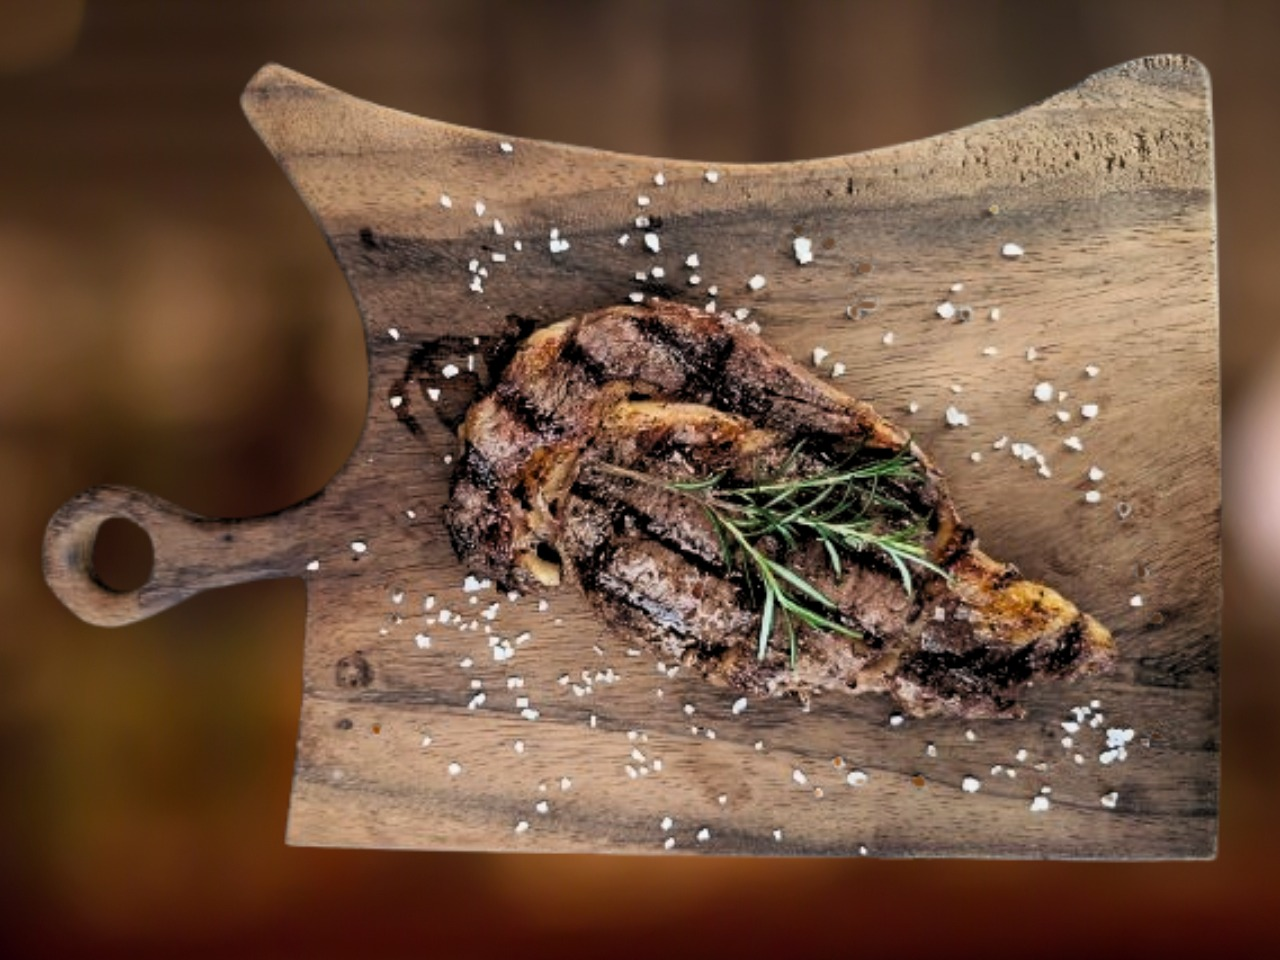
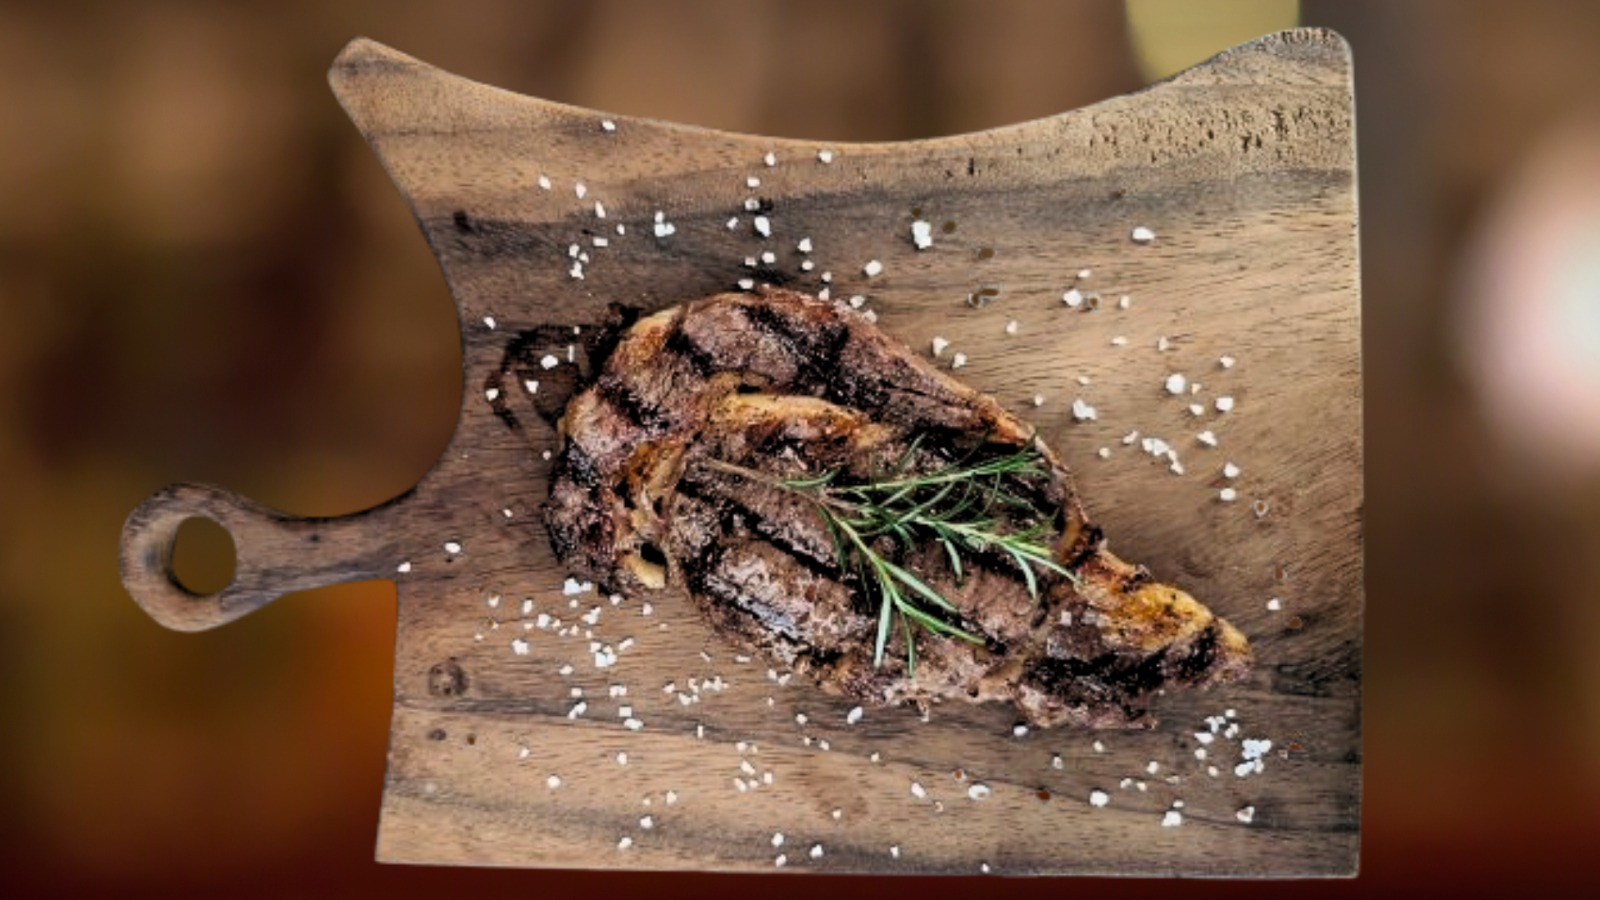
Mod imagenes de slider

diff --git a/index.html b/index.html
@@ -81,7 +81,7 @@
                 <a href="#menu-hojas" class="btn-hero"> VER MENÚ</a>
             </div>
         </div>
-        <div class="slide" style="background-image: linear-gradient(rgba(0,0,0,0.6), rgba(0,0,0,0.6)), url('img/hero4.jpeg');">
+        <div class="slide" style="background-image: linear-gradient(rgba(0,0,0,0.6), rgba(0,0,0,0.6)), url('img/hero4.webp');">
             <div class="hero-content">
                 <h1>MAESTROS <br><span>PARRILLEROS</span></h1>
                 <p>Tradición norteña cuidada en cada detalle.</p>
@@ -109,7 +109,7 @@
     <section id="nosotros" class="section-padding">
         <div class="container">
             <h2>NOSOTROS</h2>
-            <p class="section-desc">En <strong>Los Norteños del Carbón</strong> traemos la auténtica tradición de la parrilla a tu mesa. Seleccionamos el mejor carbón y materias primas para garantizar que cada bocado tenga el verdadero sabor ahumado que nos caracteriza.</p>
+            <p class="section-desc">En <strong>Los Norteños del Carbón</strong> traemos la auténtica tradición de la parrilla a tu mesa. Seleccionamos los mejores ingredientes para garantizar que cada bocado tenga el verdadero sabor al grill que nos caracteriza.</p>
             
             <div class="menu-grid" style="max-width: 500px; margin: 0 auto;">
                 <div class="menu-item" style="padding: 20px;">